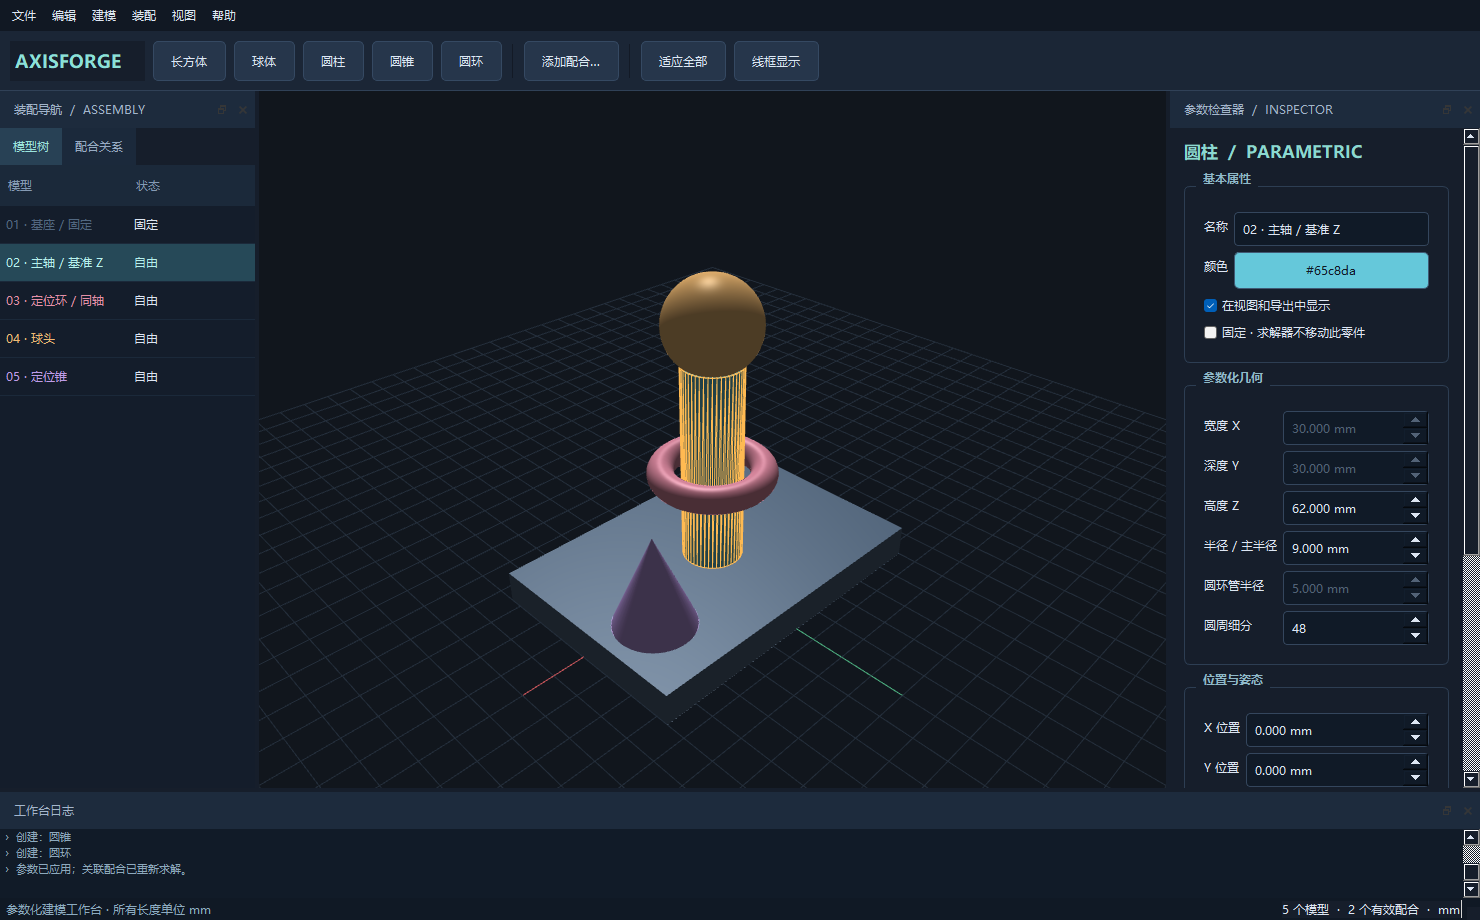
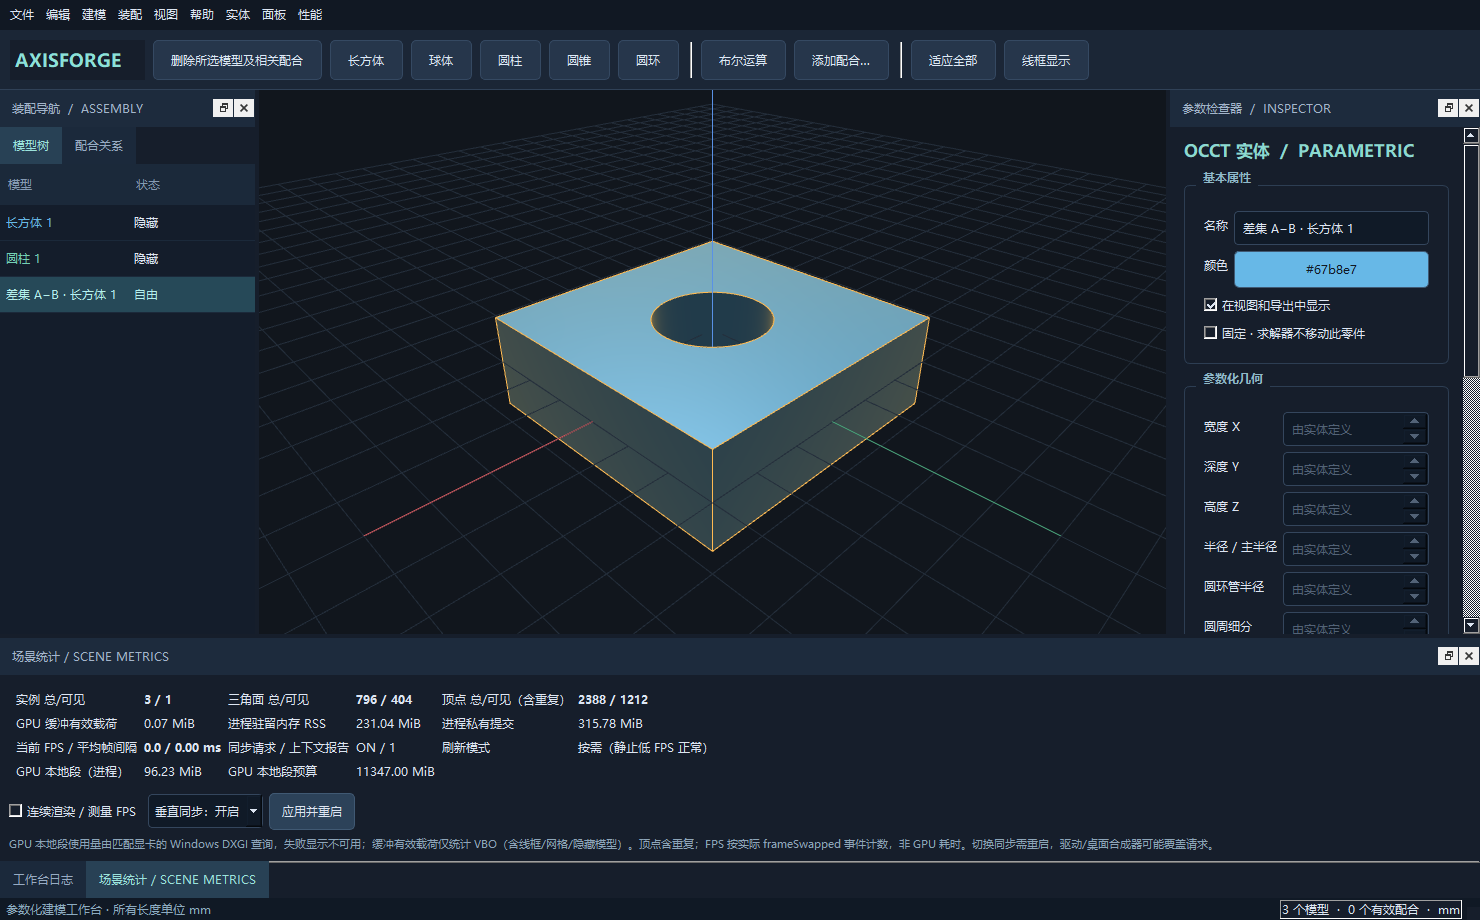
Finalize solid inspector semantics and publish OCCT workbench screenshot

diff --git a/src/ui/MainWindow.cpp b/src/ui/MainWindow.cpp
@@ -614,6 +614,15 @@ void MainWindow::showProperties() {
     numbers_["radius"]->setEnabled(b->shape != Shape::Box && b->shape != Shape::Solid);
     numbers_["tubeRadius"]->setEnabled(b->shape == Shape::Torus);
     segments_->setEnabled(b->shape != Shape::Box && b->shape != Shape::Solid);
+    for (const auto &key : QStringList{"width", "depth", "height", "radius", "tubeRadius"}) {
+        auto *spin = numbers_[key];
+        spin->setSpecialValueText(b->shape == Shape::Solid ? QStringLiteral("由实体定义") : QString());
+        if (b->shape == Shape::Solid)
+            spin->setValue(spin->minimum());
+    }
+    segments_->setSpecialValueText(b->shape == Shape::Solid ? QStringLiteral("由实体定义") : QString());
+    if (b->shape == Shape::Solid)
+        segments_->setValue(segments_->minimum());
     const auto e = b->rotation.toEulerAngles();
     for (int i = 0; i < 3; ++i) {
         numbers_[QString("pos%1").arg(i)]->setValue(b->position[i]);
@@ -642,13 +651,15 @@ void MainWindow::applyProperties() {
     updated.color = pendingColor_;
     updated.visible = visible_->isChecked();
     updated.fixed = fixed_->isChecked();
-    auto &p = updated.params;
-    p.width = numbers_["width"]->value();
-    p.depth = numbers_["depth"]->value();
-    p.height = numbers_["height"]->value();
-    p.radius = numbers_["radius"]->value();
-    p.tubeRadius = numbers_["tubeRadius"]->value();
-    p.segments = segments_->value();
+    if (updated.shape != Shape::Solid) {
+        auto &p = updated.params;
+        p.width = numbers_["width"]->value();
+        p.depth = numbers_["depth"]->value();
+        p.height = numbers_["height"]->value();
+        p.radius = numbers_["radius"]->value();
+        p.tubeRadius = numbers_["tubeRadius"]->value();
+        p.segments = segments_->value();
+    }
     updated.position = {float(numbers_["pos0"]->value()), float(numbers_["pos1"]->value()),
                         float(numbers_["pos2"]->value())};
     updated.rotation =
